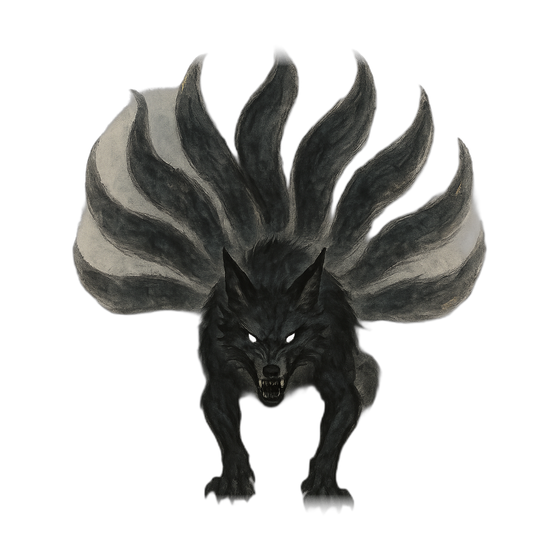
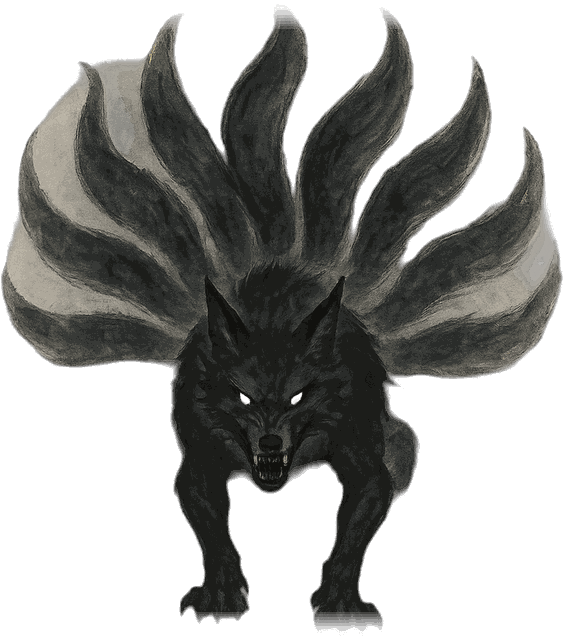
포트폴리오 갱신 — 다국어 쇼케이스 · 출시 준비 구획
Built to Ship 구획을 더해 한국어·영어·일본어 지원과 재화 변조 방지, 자동 밸런스
측정을 정리했다. 세 언어 지원은 글로만 적으면 근거가 없어 같은 메인 화면을
한/영/일로 찍어 나란히 놓았다.

구미호 아트를 인게임 최신본으로 교체하고 아르케인 키비주얼을 추가했다.

diff --git a/index.html b/index.html
@@ -123,6 +123,14 @@
   .feat p{font-size:14px;color:var(--dim)}
 
   /* boss lineup */
+  /* 다국어 쇼케이스 — 같은 화면을 세 언어로 */
+  .langs{display:grid;grid-template-columns:repeat(3,1fr);gap:22px;margin-top:40px}
+  .lang{border:1px solid var(--line);border-radius:20px;overflow:hidden;background:var(--panel);text-align:center;
+    box-shadow:0 14px 40px rgba(0,0,0,.4);transition:transform .3s,border-color .3s}
+  .lang:hover{transform:translateY(-6px);border-color:var(--gold-dim)}
+  .lang img{width:100%;display:block}
+  .lang span{display:block;padding:14px 8px;font-size:14px;color:var(--dim);letter-spacing:.04em}
+
   .bosses{display:grid;grid-template-columns:repeat(4,1fr);gap:20px}
   .boss{position:relative;border:1px solid var(--line);border-radius:20px;overflow:hidden;text-align:center;
     background:radial-gradient(120% 90% at 50% 0%,#241f4d 0%,var(--surface) 70%);padding:26px 14px 22px;transition:transform .3s,border-color .3s}
@@ -155,6 +163,9 @@
   .arc-art{position:relative;min-height:320px;border-radius:22px;overflow:hidden;border:1px solid var(--line);
     background:linear-gradient(160deg,#2a1430,#160a1e)}
   .arc-art canvas{position:absolute;inset:0;width:100%;height:100%}
+  .arc-art img{position:absolute;inset:0;width:100%;height:100%;object-fit:cover;object-position:50% 22%}
+  .arc-art::after{content:"";position:absolute;inset:0;pointer-events:none;
+    background:linear-gradient(180deg,rgba(22,10,30,.15) 0%,rgba(22,10,30,0) 45%,rgba(22,10,30,.55) 100%)}
   .arc-art .badge{position:absolute;top:16px;left:16px;font-size:11.5px;letter-spacing:.14em;text-transform:uppercase;font-weight:700;
     padding:6px 13px;border-radius:999px;background:rgba(217,143,180,.15);color:var(--plum);border:1px solid rgba(217,143,180,.4)}
   .arcane h3{font-family:var(--serif);font-size:clamp(26px,3.6vw,38px);font-weight:800}
@@ -179,6 +190,9 @@
     .bosses{grid-template-columns:repeat(2,1fr)}
     .yokai{grid-template-columns:repeat(2,1fr)}
     .feats{grid-template-columns:1fr}
+    /* 세 언어는 나란히 놓여야 비교가 되므로 3열을 유지하고 간격만 줄인다 */
+    .langs{gap:10px}
+    .lang span{padding:10px 4px;font-size:12px}
     .hero-fox{opacity:.28}
   }
 </style>
@@ -238,7 +252,7 @@
         <img class="sol-logo" src="pf/logo_base.png" alt="SOLUNA 솔루나">
         <p class="sol-tag serif">달빛 아래, 백귀(百鬼)가 깨어난다.</p>
         <p class="sol-sub">달빛에 깨어난 백귀를 음(陰)과 양(陽)의 영물로 봉인하는 세로형 레인 디펜스 로그라이트.
-          진영 드래프트로 매 판이 달라지고, 30여 종 영물과 100챕터 · 대마 4보스가 끝까지 긴장을 끌고 갑니다.</p>
+          진영 드래프트로 매 판의 빌드가 달라지고, 30여 종 영물과 100챕터 · 대마 4보스가 끝까지 긴장을 끌고 갑니다.</p>
         <div class="chips">
           <span class="chip">음양 드래프트</span><span class="chip">100 챕터</span>
           <span class="chip">요괴 24종 + 대마 4종</span><span class="chip">영물 봉인함</span><span class="chip">수묵 · 금박 아트</span>
@@ -277,10 +291,10 @@
           <h2 class="serif">매 판이 달라지는 밤</h2>
         </div>
         <div class="feats rv">
-          <div class="feat"><span class="no">01</span><h4>음양(陰陽) 드래프트</h4><p>빛과 어둠, 두 진영의 영물을 골라 덱을 구성합니다. 픽마다 태극 게이지가 움직이고, 기운 쪽의 영물이 강해집니다 — 매 판 다른 빌드가 태어납니다.</p></div>
-          <div class="feat"><span class="no">02</span><h4>100 챕터 · 대마 4보스</h4><p>요괴 24종이 광폭화 이동 패턴으로 몰려오고, 25챕터마다 대마(大魔)가 고유 스킬로 판을 흔듭니다.</p></div>
-          <div class="feat"><span class="no">03</span><h4>영물 봉인함</h4><p>혼석으로 봉인함을 열어 영물의 정수를 모읍니다. 주간 확률업 로테이션과 30/100 천장으로 영급·신급 정수를 확정 획득.</p></div>
-          <div class="feat"><span class="no">04</span><h4>정수 · 파편 성장</h4><p>무기별 정수로 상위 영물을 해금하고, 파편으로 강화합니다. 진행도 보물상자 · 상점 · 출석이 재화 순환을 받칩니다.</p></div>
+          <div class="feat"><span class="no">01</span><h4>음양(陰陽) 드래프트</h4><p>음과 양, 두 진영의 영물 중 하나를 고를 때마다 태극 게이지가 기웁니다. 기운 쪽 영물은 강해지지만 반대편 영물은 저주에 걸려 약해지므로, 한쪽으로 몰지 균형을 지킬지가 매 판의 선택이 됩니다.</p></div>
+          <div class="feat"><span class="no">02</span><h4>개벽(開闢) — 판을 뒤집는 한 수</h4><p>기른 기운을 한 번에 터뜨리는 필살 버튼. 저주가 사라지고 기운 쪽 영물이 폭발적으로 강해지며, 중앙을 지켜 온 사람에게는 전 영물 강화라는 보상이 돌아옵니다. 요괴를 처치할수록 재사용이 빨라집니다.</p></div>
+          <div class="feat"><span class="no">03</span><h4>100 챕터 · 대마 4보스</h4><p>요괴 24종이 챕터마다 다른 대열로 몰려오고 이따금 광폭화로 속도를 올립니다. 25챕터마다 기다리는 대마(大魔)는 고유 스킬과 소환 압박으로 판을 흔듭니다.</p></div>
+          <div class="feat"><span class="no">04</span><h4>영물 봉인함 · 성장</h4><p>혼석으로 봉인함을 열어 정수를 모으고, 정수로 상위 영물을 해금해 파편으로 키웁니다. 주간 확률업과 30/100 천장이 수집의 끝을 보장합니다.</p></div>
         </div>
       </div>
     </div>
@@ -310,7 +324,7 @@
     </div>
 
     <!-- gacha -->
-    <div style="padding:100px 0">
+    <div style="padding:100px 0;border-bottom:1px solid var(--line-soft)">
       <div class="wrap gacha">
         <div class="box rv"><img src="pf/treasure_0.png" alt="영물 봉인함" loading="lazy"></div>
         <div class="rv">
@@ -321,19 +335,42 @@
         </div>
       </div>
     </div>
+
+    <!-- shipping readiness -->
+    <div style="padding:100px 0">
+      <div class="wrap">
+        <div class="sec-head rv">
+          <p class="eyebrow">Built to Ship</p>
+          <h2 class="serif">내보낼 수 있는 상태로</h2>
+          <p>재미를 만드는 일과 별개로, 실제로 스토어에 올릴 때 필요한 것들을 함께 갖췄습니다.</p>
+        </div>
+        <div class="feats rv">
+          <div class="feat"><span class="no">01</span><h4>한국어 · 영어 · 일본어</h4><p>화면에 나오는 문구 589개를 세 언어로 옮겼습니다. 요괴와 영물의 이름, 스킬 설명까지 포함하며, 설정에서 언제든 바꿀 수 있습니다. 첫 실행에는 기기 언어를 따릅니다.</p></div>
+          <div class="feat"><span class="no">02</span><h4>재화 변조 방지</h4><p>골드 · 다이아 · 조각과 진행도를 보호 저장소에 담아, 메모리 편집이나 저장 파일 수정으로 값을 늘리는 가장 흔한 조작을 막았습니다.</p></div>
+          <div class="feat"><span class="no">03</span><h4>데이터로 잡은 난이도</h4><p>100챕터를 자동으로 순회하며 도달 한계를 기록하는 측정 도구를 만들어, 감이 아니라 수치로 곡선을 다듬었습니다. 난이도가 튀는 구간의 원인도 이 도구로 찾아냈습니다.</p></div>
+          <div class="feat"><span class="no">04</span><h4>세로 화면 · 한 손 조작</h4><p>드래그로 조준하고 놓으면 발사되는 단순한 조작. 노치와 안전 영역을 고려한 세로 레이아웃으로 안드로이드 실기에서 검증했습니다.</p></div>
+        </div>
+        <div class="langs rv">
+          <div class="lang"><img src="pf/l10n_ko.jpg" alt="한국어 화면" loading="lazy"><span>한국어</span></div>
+          <div class="lang"><img src="pf/l10n_en.jpg" alt="English screen" loading="lazy"><span>English</span></div>
+          <div class="lang"><img src="pf/l10n_ja.jpg" alt="日本語 화면" loading="lazy"><span>日本語</span></div>
+        </div>
+        <p class="more-note">같은 화면, 세 언어. 요괴와 영물의 이름까지 옮겼습니다.</p>
+      </div>
+    </div>
   </section>
 
   <!-- ═══════ ARCANE ═══════ -->
   <section id="arcane">
     <div class="wrap arcane">
-      <div class="arc-art rv"><canvas id="arcCanvas"></canvas><span class="badge">Coming Soon</span></div>
+      <div class="arc-art rv"><img src="pf/arcane_key.jpg" alt="아르케인 아카데미 키 비주얼" loading="lazy"><span class="badge">Coming Soon</span></div>
       <div class="rv">
         <p class="eyebrow" style="margin-bottom:10px">Next Title</p>
-        <h3 class="serif">아르케인 학원 <span style="font-size:.55em;color:var(--muted)">ARCANE ACADEMY</span></h3>
-        <p class="sub">마법 학원에서 시작되는 인연 — 감성 로맨스</p>
-        <p class="desc">마법 학원을 배경으로 캐릭터와의 관계를 쌓아가는 감성 로맨스 프로젝트. 호감도에 따라 갈라지는 이야기와 무드 일러스트를 준비하고 있습니다.</p>
-        <p class="note">※ 소개 문구·아트는 확정 후 갱신 예정입니다.</p>
-        <div class="tags"><span class="tag">스토리 로맨스</span><span class="tag">호감도 분기</span><span class="tag">캐릭터 일러스트</span></div>
+        <h3 class="serif">아르케인 아카데미 <span style="font-size:.55em;color:var(--muted)">ARCANE ACADEMY</span></h3>
+        <p class="sub">비밀스러운 엘리트들과의 동행</p>
+        <p class="desc">마법 학원을 무대로 한 매치3 퍼즐 로맨스. 퍼즐을 풀어 이야기를 열고, 네 명의 공략 대상과 쌓은 호감도가 결말을 바꿉니다.</p>
+        <p class="note">※ 개발 중인 타이틀로, 소개 문구와 아트는 확정 후 갱신됩니다.</p>
+        <div class="tags"><span class="tag">매치3 퍼즐</span><span class="tag">호감도 분기</span><span class="tag">캐릭터 일러스트</span></div>
       </div>
     </div>
   </section>
@@ -369,24 +406,6 @@
     addEventListener("resize",function(){sd=fit(sky);});
   }
 
-  // arcane ambient
-  var ac=document.getElementById("arcCanvas");
-  if(ac){ var actx=ac.getContext('2d'), ad=fit(ac), motes=[];
-    for(var i=0;i<26;i++) motes.push({x:Math.random(),y:Math.random(),r:Math.random()*2.4+.6,vy:-(Math.random()*.02+.006),p:Math.random()*6.28});
-    function drawArc(t){ var w=ac.width,h=ac.height;
-      var g=actx.createLinearGradient(0,0,w,h); g.addColorStop(0,'#2a1430'); g.addColorStop(1,'#160a1e');
-      actx.fillStyle=g; actx.fillRect(0,0,w,h);
-      var rg=actx.createRadialGradient(w*.3,h*.34,0,w*.3,h*.34,Math.min(w,h)*.5);
-      rg.addColorStop(0,'rgba(217,143,180,.85)'); rg.addColorStop(.5,'rgba(255,255,255,0)');
-      actx.globalAlpha=.45; actx.fillStyle=rg; actx.beginPath(); actx.arc(w*.3,h*.34,Math.min(w,h)*.5,0,6.28); actx.fill(); actx.globalAlpha=1;
-      for(var i=0;i<motes.length;i++){var m=motes[i]; m.y+=m.vy; if(m.y<-.05){m.y=1.05;m.x=Math.random();}
-        var a=.25+.4*Math.sin(t*.002+m.p);
-        actx.beginPath(); actx.arc(m.x*w,m.y*h,m.r*ad,0,6.28);
-        actx.fillStyle="rgba(217,143,180,"+a.toFixed(3)+")"; actx.fill();}
-      if(!reduce) requestAnimationFrame(drawArc); }
-    requestAnimationFrame(drawArc);
-    addEventListener("resize",function(){ad=fit(ac);});
-  }
 
   // scroll reveal
   var io=new IntersectionObserver(function(es){
